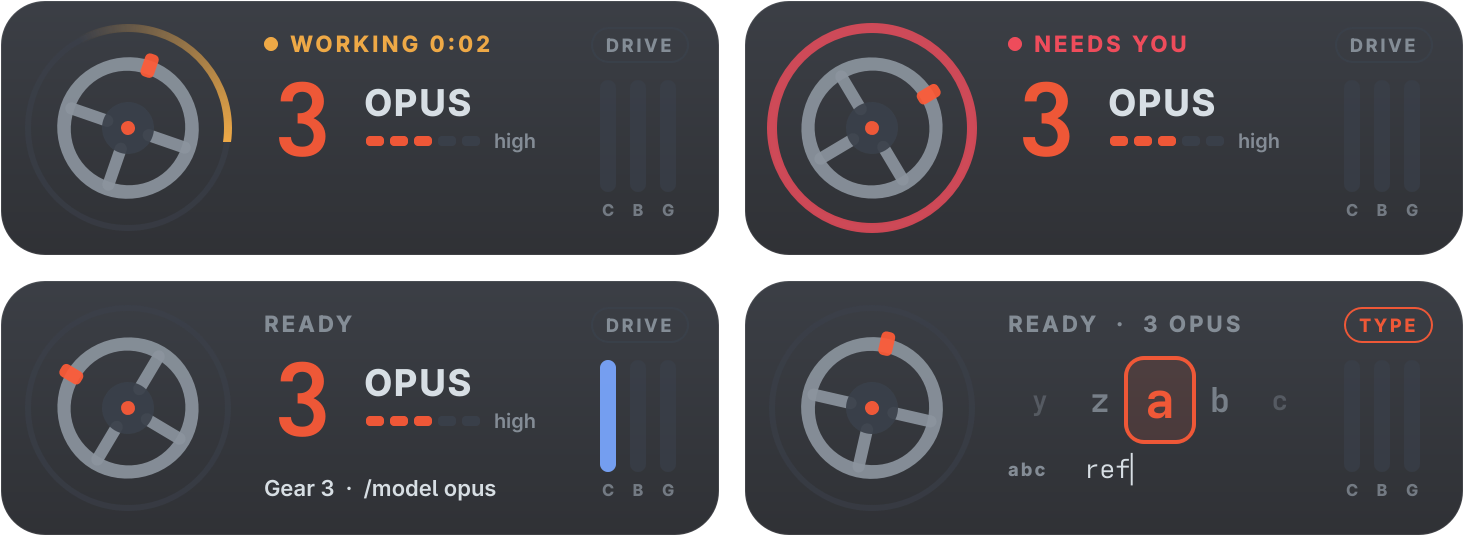
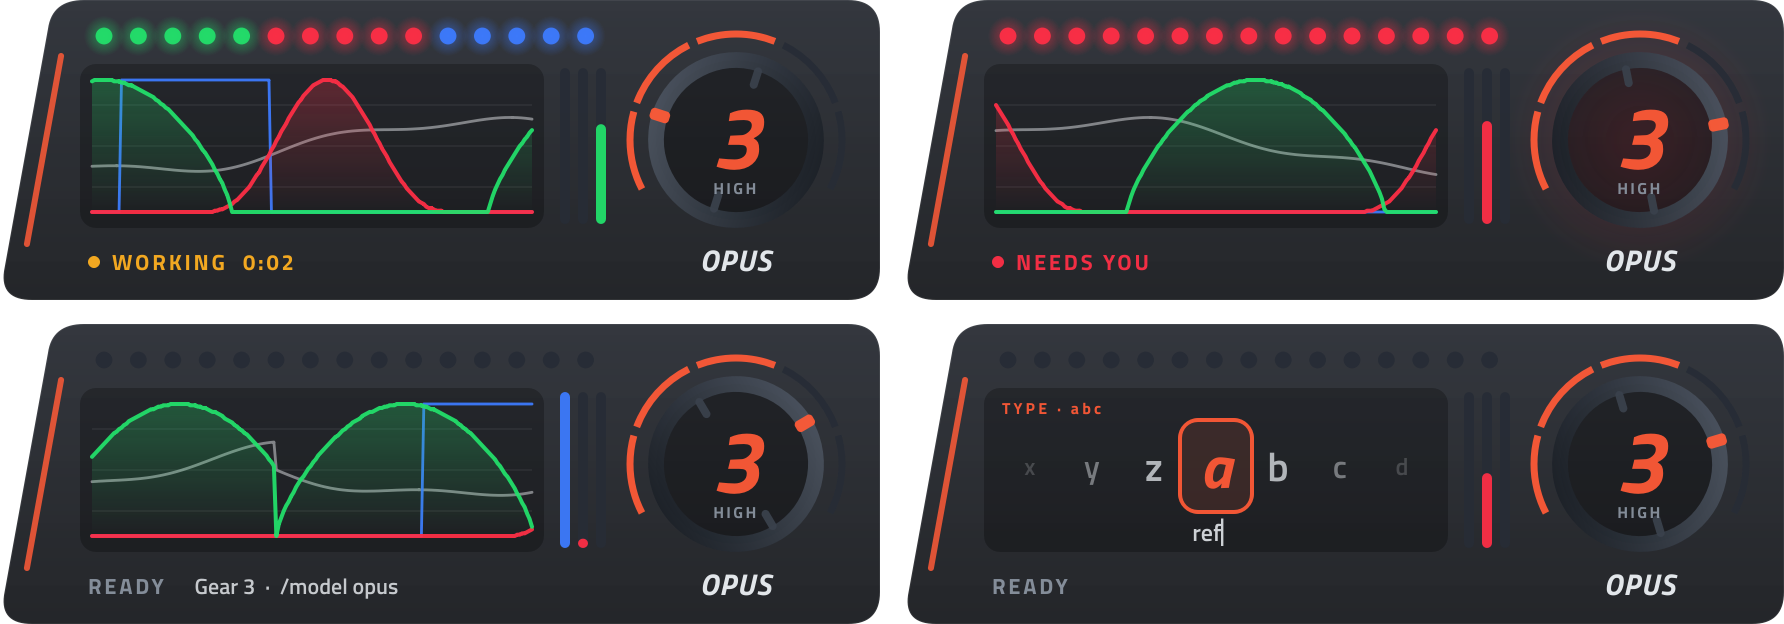
Document the redesigned HUD

diff --git a/README.md b/README.md
@@ -121,15 +121,14 @@ Tips:
 
 ## Floating HUD
 
-<img src="docs/img/hud.png" alt="The HUD: Claude working, Claude needing you, a gear change to Opus, and Type mode picking the next letter" width="100%">
+<img src="docs/img/hud.png" alt="The HUD: rev lights while Claude works, flashing red when it needs you, a gear change to Opus, and Type mode picking the next letter" width="100%">
 
-A small racing-style dashboard that floats in the bottom-left corner of your screen:
+A small sim-racing dashboard that floats in the bottom-right corner of your screen:
 
-- **Gear and model:** the gear the shifter is in and the model it picked. It starts from the model in your Claude Code settings.
-- **Claude's status:** a ring around the wheel spins amber with a timer while Claude works, pulses red when it needs your permission, and glows green when it's done.
-- **Steering:** the wheel turns with yours.
-- **Pedals and effort:** clutch, brake and gas bars, plus the `/effort` level.
-- **Type mode:** the letter you're on, its neighbours, and the word so far.
+- **Rev lights show what Claude is doing.** The F1-style strip revs up and down while Claude works, flashes red when it needs your permission, and turns green when it's done. The status line shows a timer.
+- **Input trace.** Gas, brake, clutch and steering scroll past like a telemetry overlay, with live pedal bars beside it.
+- **Wheel dial.** The rim turns with your real wheel, the gear sits in the middle, and the model is shown underneath. The arc around it is your `/effort` level, with max in the red. The model starts from your Claude Code settings.
+- **Type mode.** The trace makes way for the letter picker: the letter you're on, its neighbours, and the word so far.
 
 It never takes keyboard focus and clicks pass straight through it, so the wheel keeps typing into Claude.
 
@@ -139,7 +138,7 @@ pipx install 'g923-claude[hud]'     # from PyPI, then run: g923-hud
 g923-hud --demo                     # preview it without a wheel
 ```
 
-Qt adds about 250 MB, which is why the HUD is optional. Move or resize it in the `[hud]` section of your config, with `screen` (for example `"HDMI-1"`), `corner`, `margin`, `scale` and `opacity`. On GNOME Wayland it runs through XWayland, the only way an app can stay on top in a corner there.
+Qt adds about 250 MB, which is why the HUD is optional. Move or resize it in the `[hud]` section of your config, with `screen` (for example `"HDMI-1"`), `corner`, `margin`, `scale` and `opacity`. The bundled Titillium Web font is under the SIL Open Font License (`g923/fonts/OFL.txt`). On GNOME Wayland it runs through XWayland, the only way an app can stay on top in a corner there.
 
 ## How it works
 

diff --git a/CHANGELOG.md b/CHANGELOG.md
@@ -6,7 +6,7 @@ All notable changes to this project are documented here. The format follows [Kee
 
 ### Added
 - Type mode: holding ○ repeats backspace like a keyboard key, then switches to deleting whole words (`Ctrl+W`); timings configurable in `[type]`
-- `g923-hud`: a floating racing-style dashboard showing gear, model, effort, Claude's status, steering, pedals and the Type mode letter picker. Optional install: `pip install 'g923-claude[hud]'` or `./install.sh --hud`
+- `g923-hud`: a floating sim-racing dashboard: rev lights for Claude's status, a scrolling pedal and steering trace, and a wheel dial showing gear, model and effort, plus the Type mode letter picker. Optional install: `pip install 'g923-claude[hud]'` or `./install.sh --hud`
 - The daemon streams its live state to anything that sends `watch` on its socket
 
 ### Changed
